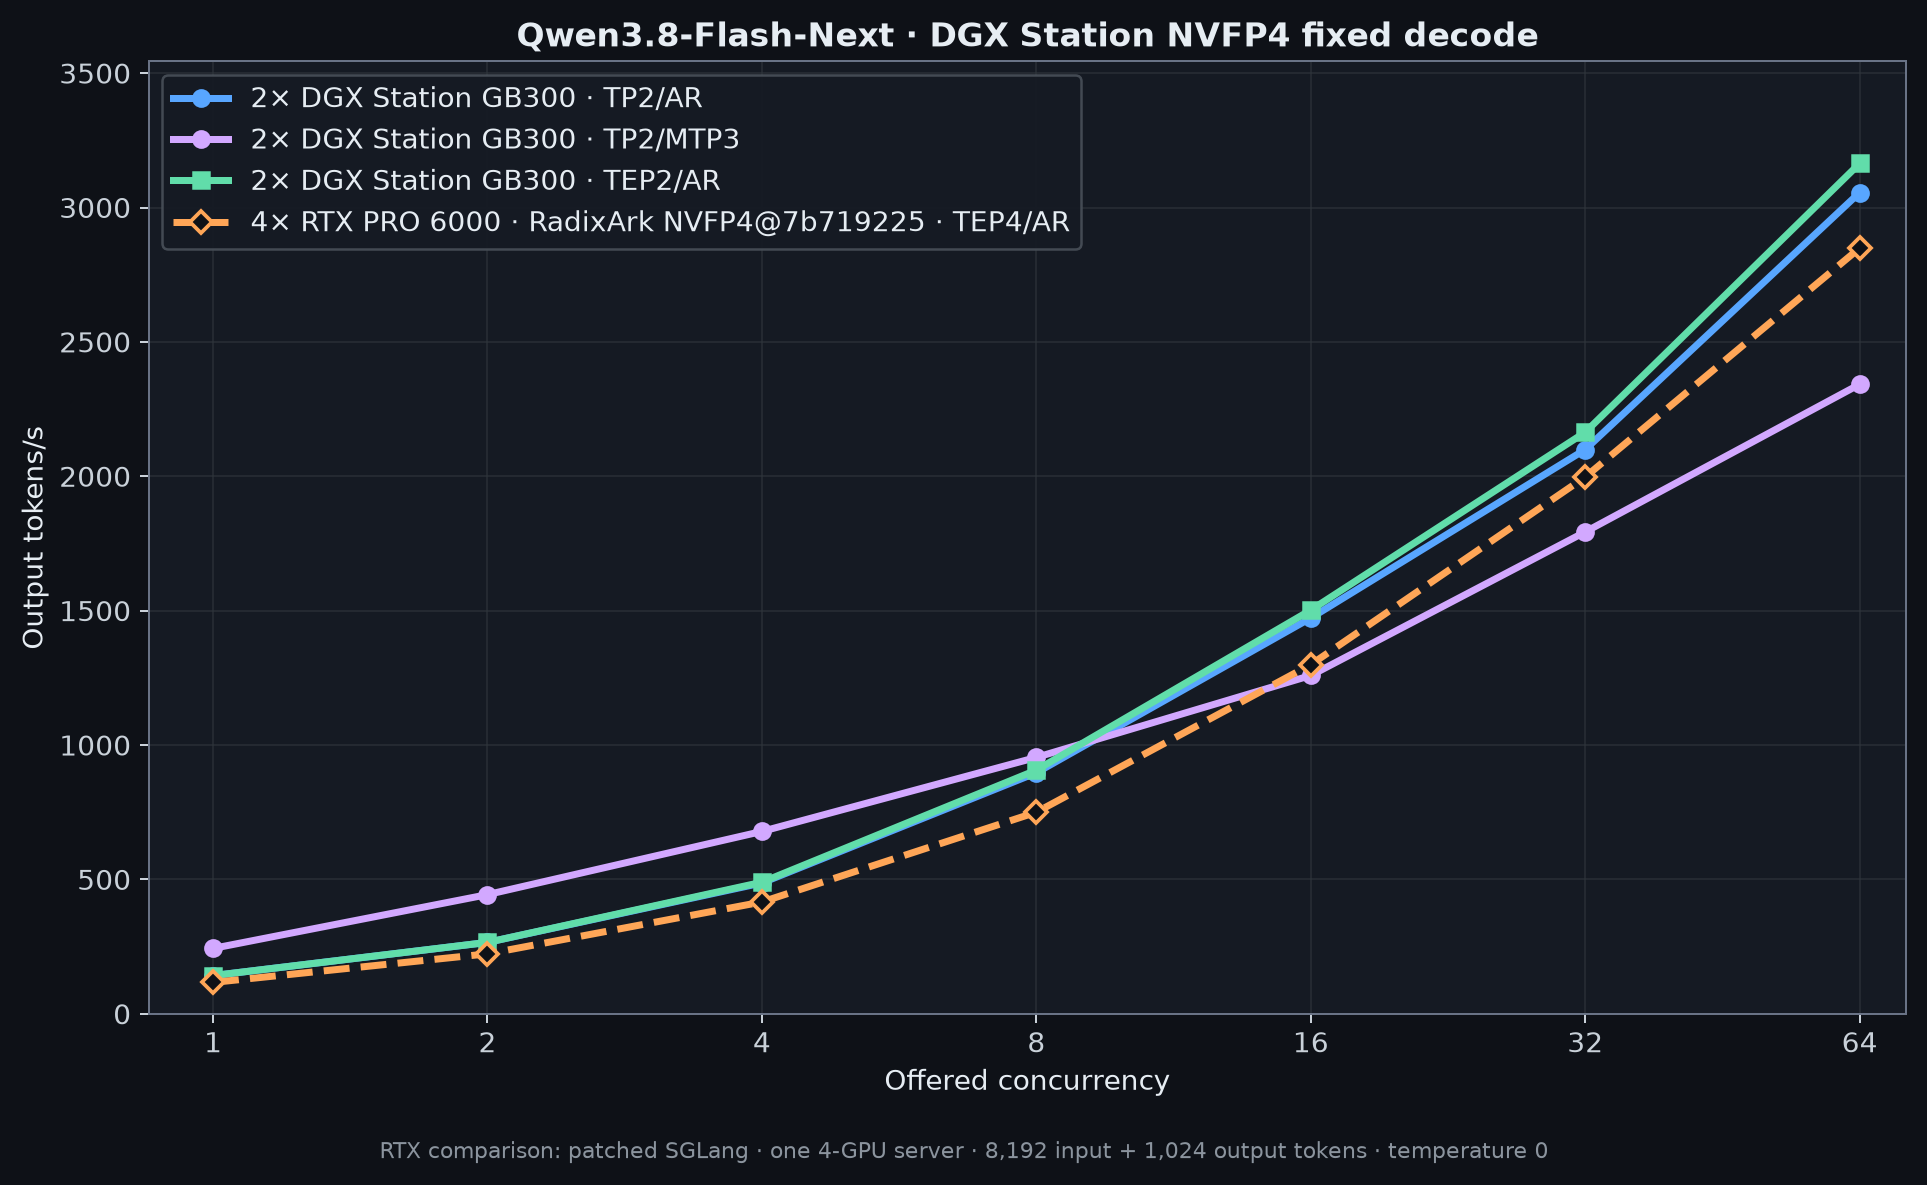
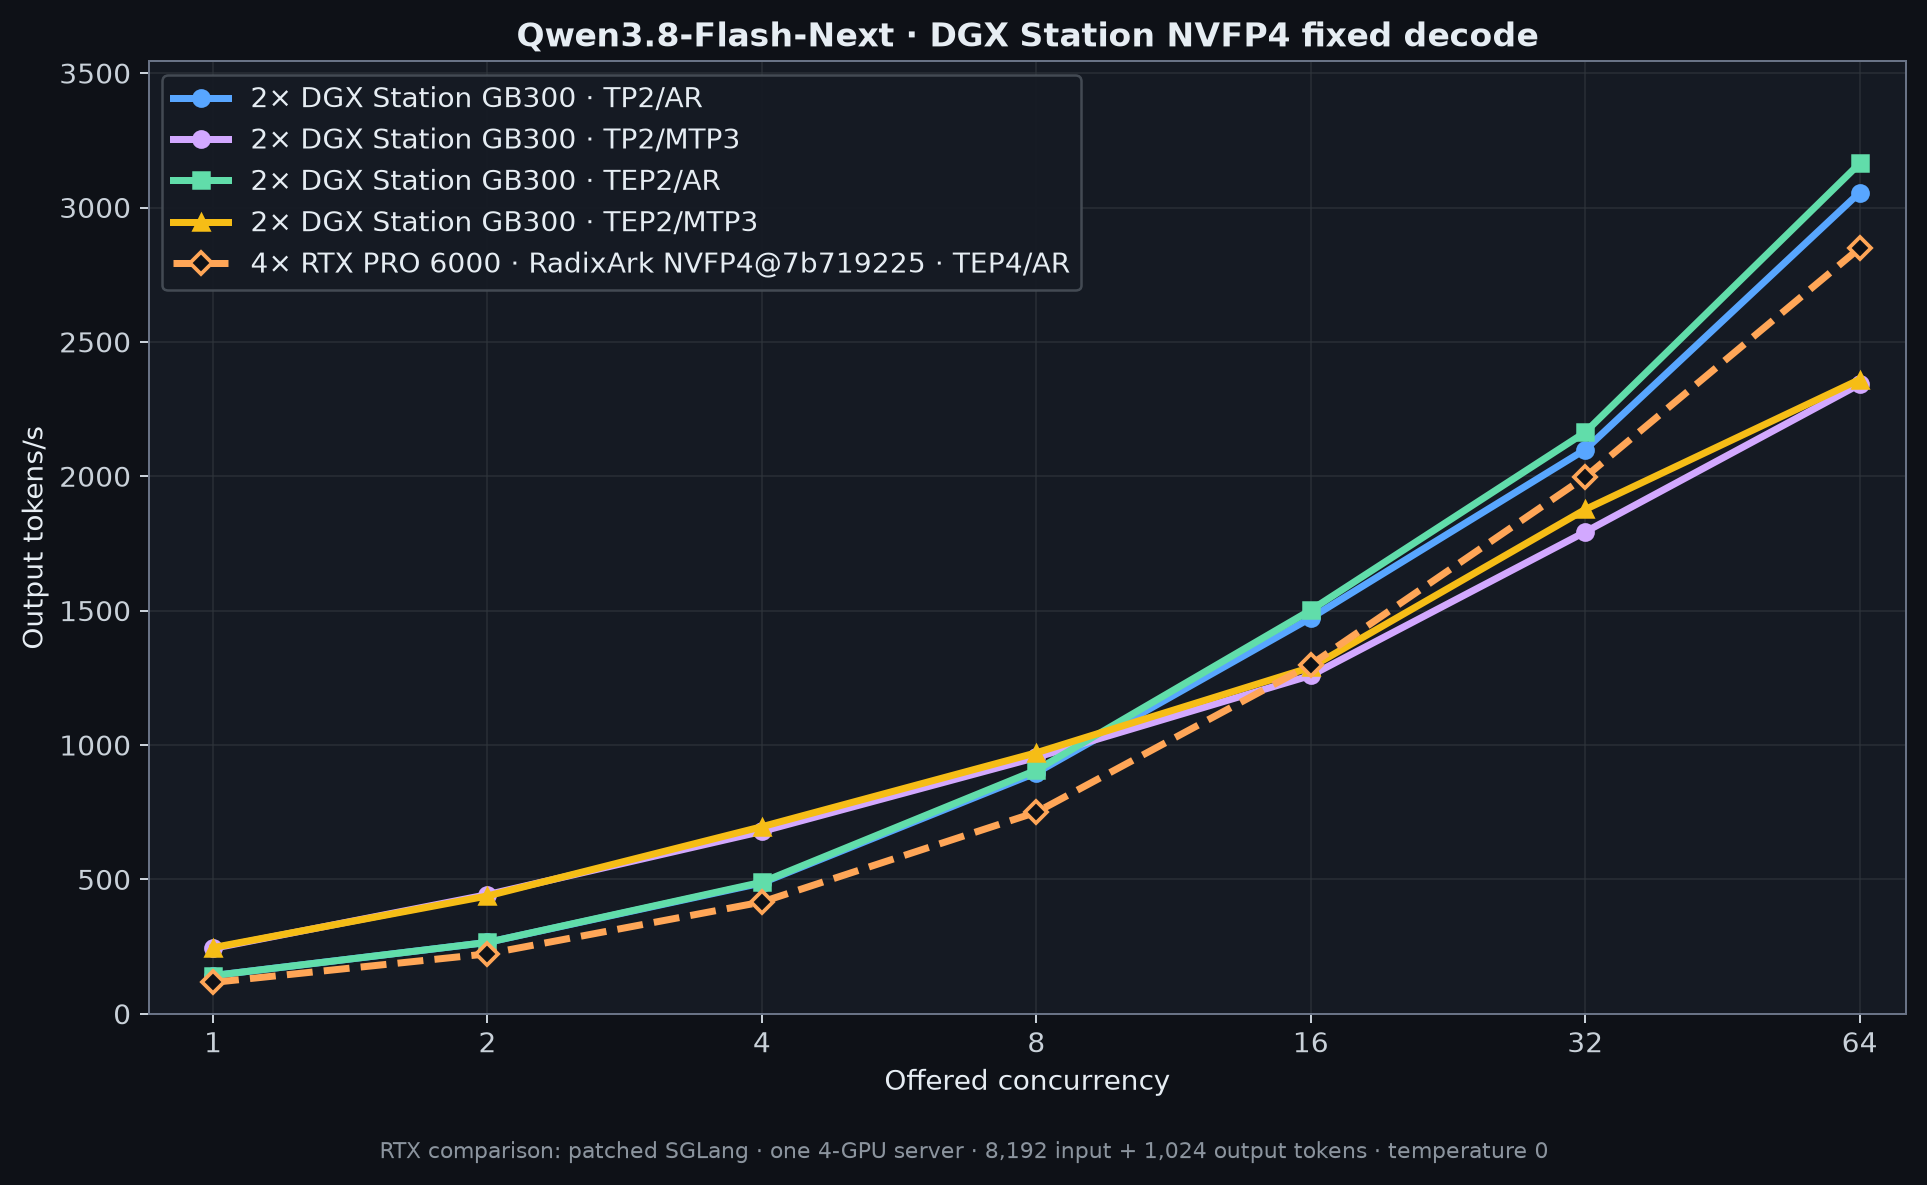
Complete Qwen3.8 Flash Next TEP2 MTP3 results

diff --git a/qwen3.8-flash-next/tests/test_section_contract.py b/qwen3.8-flash-next/tests/test_section_contract.py
@@ -395,6 +395,7 @@ class SectionContractTests(unittest.TestCase):
             "NVFP4 TP2/MTP0": "TP2/AR",
             "NVFP4 TP2/MTP3": "TP2/MTP3",
             "NVFP4 TEP2/MTP0": "TEP2/AR",
+            "NVFP4 TEP2/MTP3": "TEP2/MTP3",
         }
         dgx_decode = {
             (row["profile"], int(row["concurrency"])): Decimal(row["throughput"])
@@ -457,7 +458,7 @@ class SectionContractTests(unittest.TestCase):
         )
         self.assertIn("(qwen3.8-flash-next/)", overview_row)
         self.assertIn(
-            "TP2/MTP3: 243.5 tok/s C1; TEP2/AR: 3,164.1 C64",
+            "TEP2/MTP3: 246.4 tok/s C1; TEP2/AR: 3,164.1 C64",
             overview_row,
         )
 

diff --git a/README.md b/README.md
@@ -19,7 +19,7 @@ performance tuning, runtime quirks, benchmarking practice, and safe recovery.
 
 | Experiment | Checkpoint / precision | Headline result |
 | --- | --- | --- |
-| [Qwen3.8-Flash-Next](qwen3.8-flash-next/) | local-inference-lab NVFP4-4p89/SGLang on 2× DGX Station GB300; 4× RTX PRO 6000 comparison | TP2/MTP3: 243.5 tok/s C1; TEP2/AR: 3,164.1 C64 |
+| [Qwen3.8-Flash-Next](qwen3.8-flash-next/) | local-inference-lab NVFP4-4p89/SGLang on 2× DGX Station GB300; 4× RTX PRO 6000 comparison | TEP2/MTP3: 246.4 tok/s C1; TEP2/AR: 3,164.1 C64 |
 | [Qwen3.8-27B](qwen3.8-27b/) | BF16 plus unofficial Huginn FP8 and NVFP4A16 targets; BF16 KV/Mamba state | DFlash2: 265.8 tok/s C1; MTP: 6,348.8 C128. Quant AR C128: FP8 5,494.4 (+8.7% vs BF16), NVFP4A16 3,607.4 (−28.6%) |
 | [Qwen2.5-72B LoRA FSDP training](qwen72b-lora-fsdp/) | BF16 LoRA SFT; FSDP2 over 2× GB300; packed UltraChat 10K at 2,048 tokens | 4,453.19 tokens/s; 29.433 s/optimizer step; global batch 131,072 tokens |
 | [RF-DETR Large training](rfdetr-training/) | BF16 fine-tuning on the 1.17M-image MLPerf OpenImages subset; 2× GB300 DDP | Optimized global-batch-128 epoch: 220.45 images/s and 1:46:52 end to end (2.44× faster than control) |

diff --git a/qwen3.8-flash-next/README.md b/qwen3.8-flash-next/README.md
@@ -7,13 +7,15 @@ Flash-Next MoE model, not Qwen3.8-27B.
 
 The DGX headline uses
 [`local-inference-lab/Qwen3.8-Flash-Next-NVFP4-4p89`](https://huggingface.co/local-inference-lab/Qwen3.8-Flash-Next-NVFP4-4p89)
-on SGLang. This is one distributed engine across both Stations using TP2.
+on SGLang. Each profile is one distributed engine across both Stations; TEP2
+adds expert parallelism to TP2.
 
 | DGX profile | C1 decode | C16 decode | C64 decode | 64K cold prefill |
 | --- | ---: | ---: | ---: | ---: |
 | TP2/AR | 142.4 tok/s | 1,473.0 tok/s | 3,055.9 tok/s | 24,437 tok/s |
-| TP2/MTP3 | **243.5 tok/s** | 1,258.9 tok/s | 2,342.4 tok/s | 24,363 tok/s |
+| TP2/MTP3 | 243.5 tok/s | 1,258.9 tok/s | 2,342.4 tok/s | 24,363 tok/s |
 | TEP2/AR | 142.3 tok/s | **1,502.3 tok/s** | **3,164.1 tok/s** | **25,210 tok/s** |
+| TEP2/MTP3 | **246.4 tok/s** | 1,289.2 tok/s | 2,360.1 tok/s | 24,170 tok/s |
 
 ![DGX Station and 4× RTX PRO 6000 NVFP4 decode throughput](charts/dgx-nvfp4-decode.png)
 
